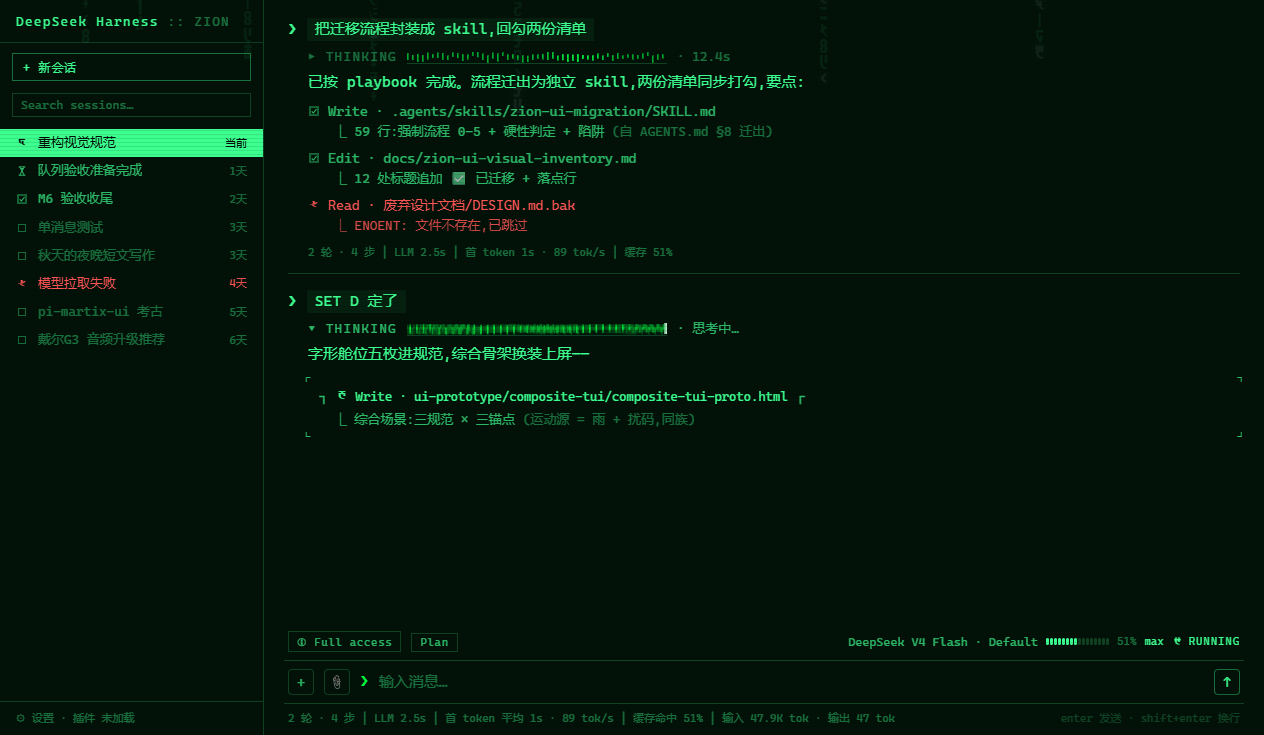
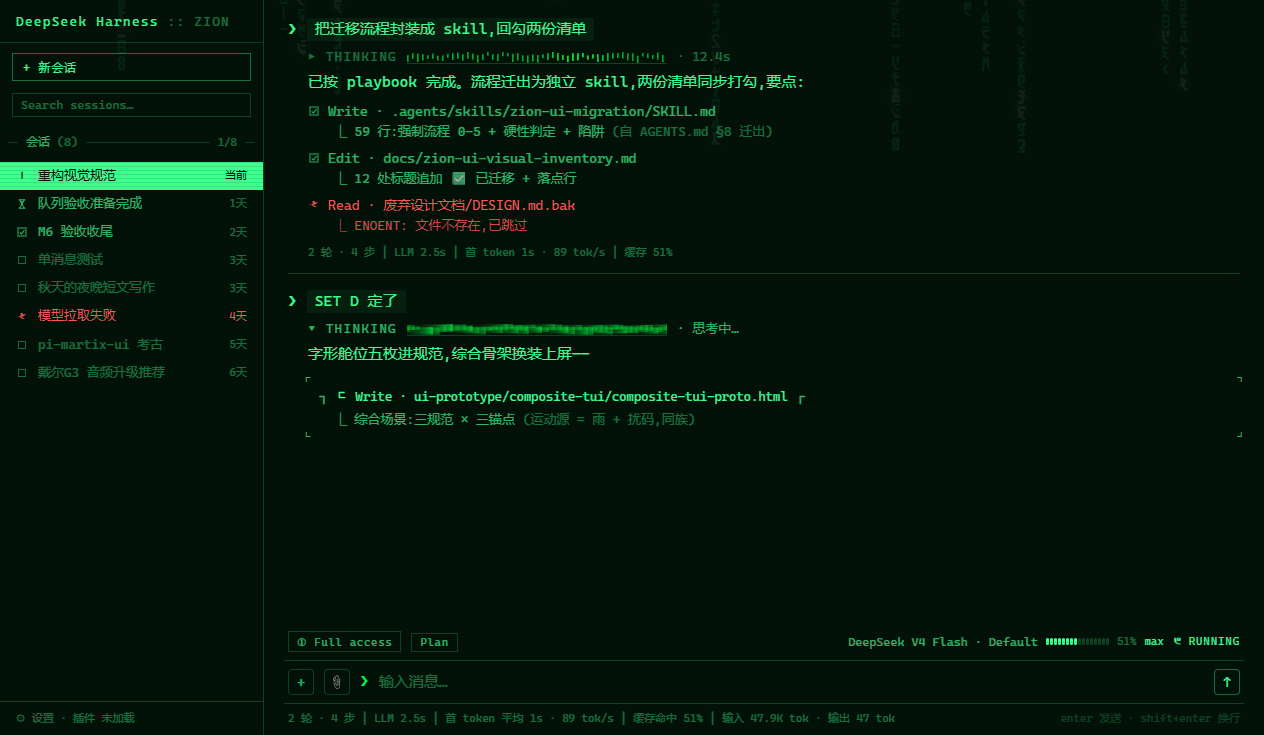
docs(design): 沉淀 §2.13 面板标题单线嵌题(C09 选 B),composite 侧栏上嵌题线

Changed region(s): [[0.0, 0.1497, 0.216, 0.5388], [0.3085, 0.419, 0.5245, 0.4789], [0.1851, 0.2993, 0.216, 0.3592]]

diff --git a/ui-prototype/panel-title/panel-title-proto.html b/ui-prototype/panel-title/panel-title-proto.html
@@ -1,0 +1,115 @@
+<!DOCTYPE html>
+<!-- PROTOTYPE — throwaway: C09 标题嵌边框面板 微 demo
+     裁决问题:面板标题的承载——A 全框嵌题(lazygit 直译:四边发丝框,标题嵌顶边,右端位置指示)
+     vs B 单线嵌题(只有顶发丝线,标题与位置指示嵌在线上,内容不围框;与 §2.9 回合发丝线同族)。
+     共同语义:标题不占内容行;位置指示 = 选中项序号/总数,40% 档。 -->
+<html lang="zh">
+<head>
+<meta charset="utf-8">
+<title>C09 · 标题嵌边框面板</title>
+<style>
+  :root {
+    --bg: #010a04;
+    --surface: rgba(2, 18, 9, 0.92);
+    --p100: rgba(61, 255, 143, 1);
+    --p70: rgba(61, 255, 143, 0.7);
+    --p40: rgba(61, 255, 143, 0.4);
+    --p20: rgba(61, 255, 143, 0.2);
+    --danger: #ff5555;
+    --font: "Share Tech Mono", ui-monospace, "Cascadia Mono", "Courier New", "Sarasa Term SC", "Microsoft YaHei", monospace;
+  }
+  * { margin: 0; padding: 0; box-sizing: border-box; }
+  body { background: var(--bg); color: var(--p100); font: 15px/1.55 var(--font); padding: 28px 32px; }
+  *::-webkit-scrollbar { width: 6px; height: 6px; }
+  *::-webkit-scrollbar-thumb { background: #00ff66; border-radius: 3px; }
+  *::-webkit-scrollbar-track, *::-webkit-scrollbar-corner { background: transparent; }
+
+  h1 { font-size: 13px; letter-spacing: 0.12em; margin-bottom: 4px; }
+  h1 .tag { color: var(--p40); }
+  .rule { color: var(--p70); font-size: 12px; margin-bottom: 20px; }
+  h2 { font-size: 11px; letter-spacing: 0.14em; color: var(--p70); margin: 22px 0 8px; text-transform: uppercase; }
+  h2::before { content: "─ "; color: var(--p40); }
+  h2 .d { color: var(--p40); letter-spacing: 0; text-transform: none; }
+
+  .lane { border: 1px solid var(--p20); background: var(--surface); padding: 18px 20px 20px; margin-bottom: 14px; }
+  .panels { display: flex; gap: 36px; }
+  .panel { flex: 1; min-width: 0; }
+
+  /* 会话行(与 composite 侧栏同构) */
+  .s { display: flex; gap: 8px; align-items: center; padding: 4px 14px; font-size: 13px; white-space: nowrap; }
+  .s .nm { overflow: hidden; text-overflow: ellipsis; }
+  .s .age { margin-left: auto; color: var(--p40); font-size: 11px; }
+  .s.hover { background: rgba(61,255,143,0.06); }
+  .s.sel { background: var(--p100); color: var(--bg); }
+  .s.sel .age { color: var(--bg); }
+  .s.err { color: var(--danger); }
+  .s.err .age { color: var(--danger); }
+
+  /* A 全框嵌题(lazygit 直译):四边发丝框,标题嵌顶边 */
+  .a .panel { position: relative; border: 1px solid var(--p20); padding: 8px 0 6px; margin-top: 8px; }
+  .a .pt { position: absolute; top: -8px; left: 10px; right: 10px; display: flex; align-items: baseline; }
+  .a .pt .t { background: var(--surface); padding: 0 6px; color: var(--p70); font-size: 12px; }
+  .a .pt .t .n { color: var(--p40); }
+  .a .pt .pos { margin-left: auto; background: var(--surface); padding: 0 6px; color: var(--p40); font-size: 11px; font-variant-numeric: tabular-nums; }
+
+  /* B 单线嵌题:标题与位置指示嵌在一条顶发丝线上,内容不围框 */
+  .b .pt { display: flex; align-items: center; gap: 8px; margin: 8px 0 6px; }
+  .b .pt::before { content: ""; width: 10px; border-top: 1px solid var(--p20); }
+  .b .pt .t { color: var(--p70); font-size: 12px; }
+  .b .pt .t .n { color: var(--p40); }
+  .b .pt .fill { flex: 1; border-top: 1px solid var(--p20); }
+  .b .pt .pos { color: var(--p40); font-size: 11px; font-variant-numeric: tabular-nums; }
+  .b .pt::after { content: ""; width: 10px; border-top: 1px solid var(--p20); }
+
+  .note { color: var(--p40); font-size: 11px; line-height: 1.8; margin-top: 6px; }
+</style>
+</head>
+<body>
+
+<h1>C09 · 标题嵌边框面板 <span class="tag">— A 全框嵌题 vs B 单线嵌题</span></h1>
+<div class="rule">共同语义:标题不占内容行,右端位置指示 = 选中序号/总数(40% 档)。内容统一用侧栏会话列表(含选中反显行 §2.10、错误行、hover 薄底)。</div>
+
+<h2>A · 全框嵌题 <span class="d">lazygit 直译:四边发丝框,标题嵌顶边,右端位置指示</span></h2>
+<div class="lane a">
+  <div class="panels">
+    <div class="panel">
+      <div class="pt"><span class="t">会话 <span class="n">(12)</span></span><span class="pos">3/12</span></div>
+      <div class="s hover"><span class="nm">重构视觉规范</span><span class="age">当前</span></div>
+      <div class="s"><span class="nm">队列验收准备完成</span><span class="age">1天</span></div>
+      <div class="s sel"><span class="nm">M6 验收收尾</span><span class="age">2天</span></div>
+      <div class="s"><span class="nm">单消息测试</span><span class="age">3天</span></div>
+      <div class="s err"><span class="nm">模型拉取失败</span><span class="age">4天</span></div>
+    </div>
+    <div class="panel">
+      <div class="pt"><span class="t">队列 <span class="n">(3)</span></span><span class="pos">1/3</span></div>
+      <div class="s sel"><span class="nm">编译 renderer</span><span class="age">运行中</span></div>
+      <div class="s"><span class="nm">探针:审批接管</span><span class="age">排队</span></div>
+      <div class="s"><span class="nm">探针:队列 dock</span><span class="age">排队</span></div>
+    </div>
+  </div>
+</div>
+
+<h2>B · 单线嵌题 <span class="d">只有顶发丝线,标题与位置指示嵌在线上,内容不围框——与 §2.9 同族</span></h2>
+<div class="lane b">
+  <div class="panels">
+    <div class="panel">
+      <div class="pt"><span class="t">会话 <span class="n">(12)</span></span><span class="fill"></span><span class="pos">3/12</span></div>
+      <div class="s hover"><span class="nm">重构视觉规范</span><span class="age">当前</span></div>
+      <div class="s"><span class="nm">队列验收准备完成</span><span class="age">1天</span></div>
+      <div class="s sel"><span class="nm">M6 验收收尾</span><span class="age">2天</span></div>
+      <div class="s"><span class="nm">单消息测试</span><span class="age">3天</span></div>
+      <div class="s err"><span class="nm">模型拉取失败</span><span class="age">4天</span></div>
+    </div>
+    <div class="panel">
+      <div class="pt"><span class="t">队列 <span class="n">(3)</span></span><span class="fill"></span><span class="pos">1/3</span></div>
+      <div class="s sel"><span class="nm">编译 renderer</span><span class="age">运行中</span></div>
+      <div class="s"><span class="nm">探针:审批接管</span><span class="age">排队</span></div>
+      <div class="s"><span class="nm">探针:队列 dock</span><span class="age">排队</span></div>
+    </div>
+  </div>
+</div>
+
+<div class="note">判断点:A 的封闭框分组边界最强(多面板并排时互不串),但框线总量翻倍——与「全框工具卡被判臃肿」同源的风险;B 用一条线拿到同样的标题位与位置指示,墨量最少,但面板右/下无边界,并排时靠间距分组。位置指示在选中变化时跟随(此处静态 mock)。</div>
+
+</body>
+</html>

diff --git a/ui-prototype/composite-tui/composite-tui-proto.html b/ui-prototype/composite-tui/composite-tui-proto.html
@@ -51,6 +51,14 @@
     background: none; border: 1px solid var(--p20); outline: none; width: calc(100% - 24px); }
   .search::placeholder { color: var(--p40); }
   .sessions { flex: 1; overflow-y: auto; padding: 4px 0; }
+  /* C09 面板标题(§2.13):单线嵌题——标题与位置指示嵌在一条发丝线上 */
+  .pt { display: flex; align-items: center; gap: 8px; margin: 8px 8px 6px; }
+  .pt::before { content: ""; width: 10px; border-top: 1px solid var(--p20); }
+  .pt .t { color: var(--p70); font-size: 12px; }
+  .pt .t .n { color: var(--p40); }
+  .pt .fill { flex: 1; border-top: 1px solid var(--p20); }
+  .pt .pos { color: var(--p40); font-size: 11px; font-variant-numeric: tabular-nums; }
+  .pt::after { content: ""; width: 10px; border-top: 1px solid var(--p20); }
   .s { display: flex; gap: 8px; align-items: center; padding: 4px 16px; font-size: 13px; white-space: nowrap; cursor: default; }
   .s .g { width: 14px; }
   .s .t { overflow: hidden; text-overflow: ellipsis; }
@@ -167,6 +175,7 @@
     <div class="brand">DeepSeek Harness <span class="dim">:: ZION</span></div>
     <button class="newbtn">+ 新会话</button>
     <input class="search" placeholder="Search sessions…">
+    <div class="pt"><span class="t">会话 <span class="n">(8)</span></span><span class="fill"></span><span class="pos">1/8</span></div>
     <div class="sessions">
       <div class="s run sel"><span class="g ic c-run" data-k="run"></span><span class="t">重构视觉规范</span><span class="age">当前</span></div>
       <div class="s wait"><span class="g ic c-wait" data-k="wait"></span><span class="t">队列验收准备完成</span><span class="age">1天</span></div>

diff --git a/DESIGN.md b/DESIGN.md
@@ -192,6 +192,17 @@ Matrix 的辨识度来自黑场、磷光绿、字形与状态叙事,不来自效
 
 > 验证:`ui-prototype/context-bar/`(V0 1:1 字符复刻 / V1 药丸分段 / V2 发丝刻度,2026-08-29 选 V1)。
 
+### 2.13 面板标题:单线嵌题(C09 选 B)
+
+面板(侧栏会话/队列 dock 等)的标题嵌进一条顶发丝线,不占内容行、不围框:
+
+- 结构 = `─ 标题 (n) ────────── 序号/总数 ─`:左短衬线 + 标题(70% 档)+ 条数(40% 档)+ 中段发丝填充线(20% 档)+ 右端位置指示(40% 档,tabular-nums)+ 右短衬线。
+- **位置指示** = 选中项序号/总数(如 `3/12`),跟随选中变化。
+- 标题行是面板唯一允许的「框」;内容区不画左右/底边,多面板并排靠间距分组。
+- 被替代物:四边封闭框嵌题(lazygit 直译,框线总量翻倍,否);占内容行的面板标题(既有样式属待修正)。
+
+> 验证:`ui-prototype/panel-title/`(A 全框嵌题 vs B 单线嵌题,2026-08-29 选 B)。
+
 ## 3. 不可交换的边界
 
 风格可以重做,以下边界不因任何风格任务豁免:
